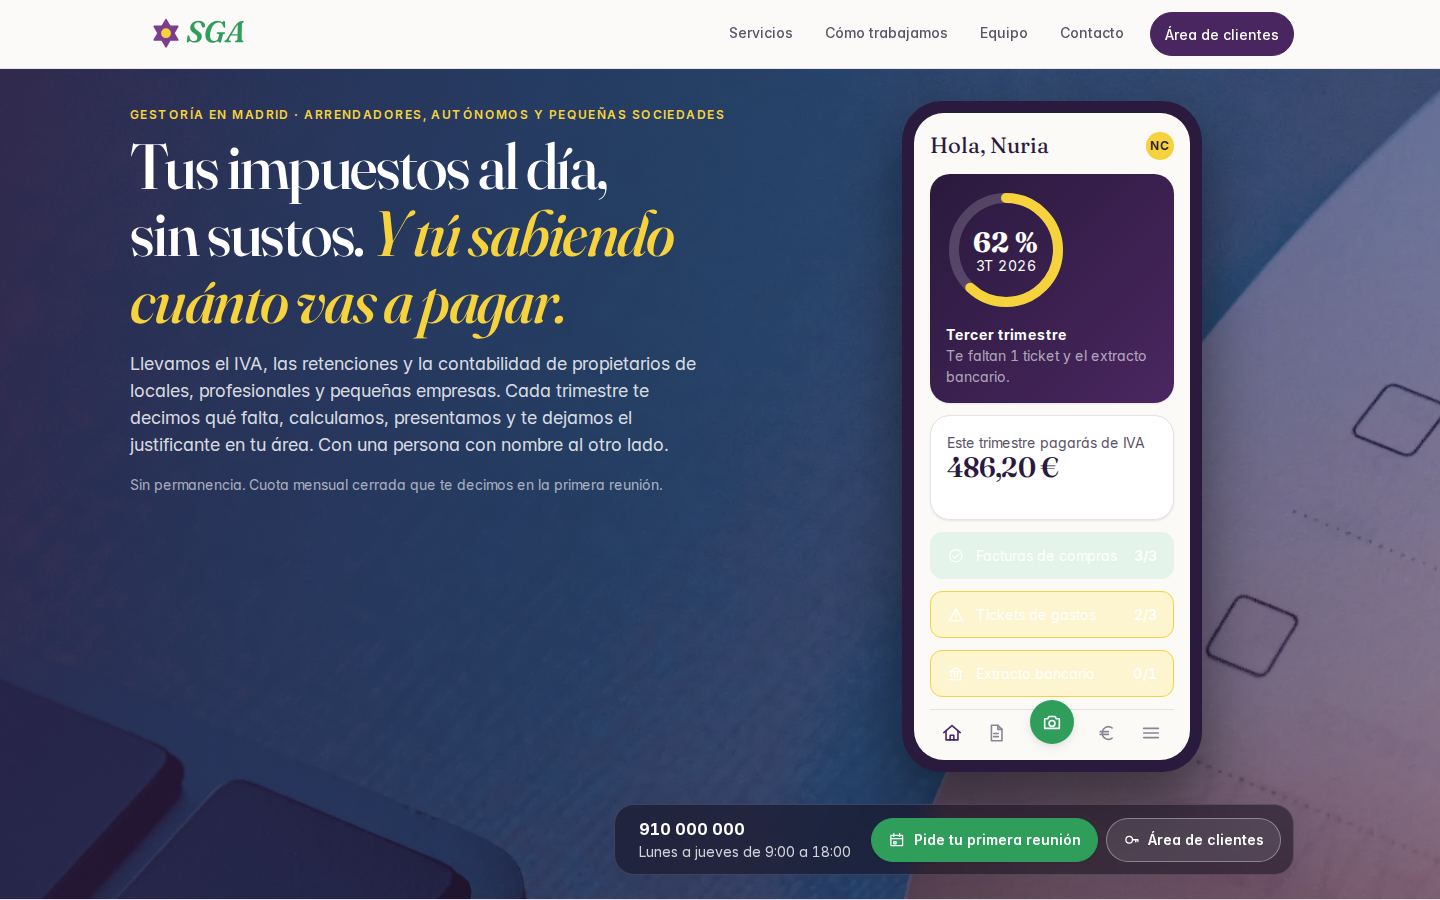
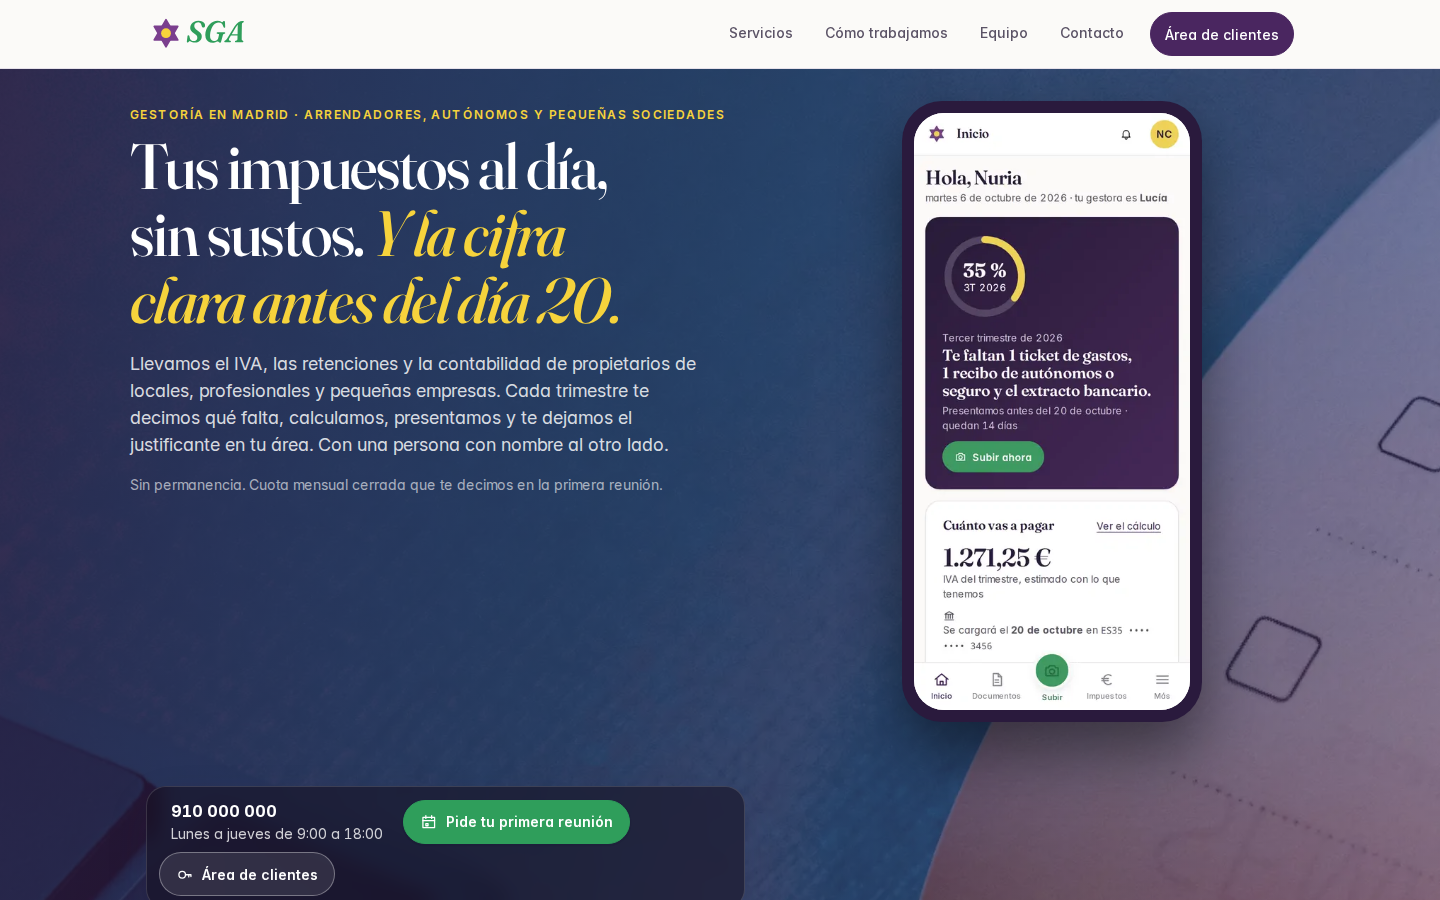
SGA: menu lateral claro, captura real del area en el hero y nuevo titular («la cifra clara antes del dia 20»)
Claude-Session: https://claude.ai/code/session_01F2MdGGYEvGJmwLcayXGW5u

Changed region(s): [[0.0, 0.0933, 1.0, 1.0], [0.0938, 0.2178, 0.4688, 0.3733], [0.9375, 0.4356, 1.0, 0.5289]]

diff --git a/SGA/src/Sga.Web/wwwroot/css/sga.css b/SGA/src/Sga.Web/wwwroot/css/sga.css
@@ -266,6 +266,8 @@ a.celda:hover { filter: brightness(.95); }
 /* Maqueta de móvil en la web pública (dibujada con CSS, sin imágenes) */
 .movil { width: 300px; margin: 0 auto; border-radius: 40px; background: var(--morado-900); padding: 12px; box-shadow: var(--sombra-3); }
 .movil-pantalla { background: var(--papel); border-radius: 30px; overflow: hidden; padding: var(--e-4); min-height: 560px; display: flex; flex-direction: column; gap: var(--e-3); font-size: var(--t-sm); }
+.movil-pantalla.movil-real { padding: 0; min-height: 0; display: block; }
+.movil-real img { width: 100%; height: auto; display: block; }
 .movil-pantalla .hola { font-family: var(--f-display); font-size: var(--t-xl); color: var(--morado-900); }
 .movil-nav { margin-top: auto; display: flex; justify-content: space-around; padding-top: var(--e-3); border-top: 1px solid var(--linea); color: var(--tinta-3); }
 .movil-nav .icono { width: 22px; height: 22px; }
@@ -317,16 +319,20 @@ a.celda:hover { filter: brightness(.95); }
 @media (min-width: 900px) {
   .app { display: grid; grid-template-columns: var(--ancho-lateral) 1fr; grid-template-rows: auto 1fr; }
   .app.plegado { grid-template-columns: var(--ancho-lateral-plegado) 1fr; }
-  .app-lateral { display: flex; flex-direction: column; grid-row: 1 / -1; position: sticky; top: 0; height: 100dvh; background: var(--morado-900); color: rgba(255, 255, 255, .85); padding: var(--e-4) var(--e-3); gap: var(--e-2); overflow-y: auto; }
-  .app-lateral .marca { color: #fff; padding: 6px 10px 14px; }
+  .app-lateral { display: flex; flex-direction: column; grid-row: 1 / -1; position: sticky; top: 0; height: 100dvh; background: linear-gradient(180deg, #FBF9FD 0%, #F5EFF9 100%); color: var(--tinta-2); padding: var(--e-4) var(--e-3); gap: var(--e-2); overflow-y: auto; border-right: 1px solid var(--linea); }
+  .app-lateral .marca { color: var(--morado-900); padding: 6px 10px 14px; }
   .app-lateral .marca img { height: 34px; }
-  .app-lateral .titulo-nav { font-size: 10px; letter-spacing: .12em; text-transform: uppercase; color: rgba(255, 255, 255, .45); padding: var(--e-3) 12px 4px; }
+  .app-lateral .titulo-nav { font-size: 10px; letter-spacing: .12em; text-transform: uppercase; color: var(--tinta-3); padding: var(--e-3) 12px 4px; }
   .app-lateral nav { display: flex; flex-direction: column; gap: 2px; }
-  .app-lateral nav a { display: flex; align-items: center; gap: 12px; padding: 10px 12px; border-radius: var(--r); color: rgba(255, 255, 255, .85); text-decoration: none; font-size: var(--t-sm); font-weight: var(--peso-medio); white-space: nowrap; }
-  .app-lateral nav a:hover { background: rgba(255, 255, 255, .08); color: #fff; }
-  .app-lateral nav a[aria-current="page"] { background: rgba(255, 255, 255, .14); color: #fff; box-shadow: inset 3px 0 0 var(--amarillo-500); }
+  .app-lateral nav a { display: flex; align-items: center; gap: 12px; padding: 10px 12px; border-radius: var(--r); color: var(--tinta-2); text-decoration: none; font-size: var(--t-sm); font-weight: var(--peso-medio); white-space: nowrap; transition: background var(--transicion), color var(--transicion); }
+  .app-lateral nav a .icono { color: var(--morado-300); transition: color var(--transicion); }
+  .app-lateral nav a:hover { background: rgba(123, 63, 142, .08); color: var(--morado-900); }
+  .app-lateral nav a:hover .icono { color: var(--morado-500); }
+  .app-lateral nav a[aria-current="page"] { background: #fff; color: var(--morado-900); font-weight: var(--peso-semi); box-shadow: var(--sombra-1), inset 3px 0 0 var(--morado-500); }
+  .app-lateral nav a[aria-current="page"] .icono { color: var(--morado-700); }
   .app-lateral nav a .icono { width: 22px; height: 22px; }
-  .app-lateral .lateral-pie { margin-top: auto; padding: var(--e-3) 8px 0; border-top: 1px solid rgba(255, 255, 255, .12); display: flex; align-items: center; gap: 10px; font-size: var(--t-xs); color: rgba(255, 255, 255, .7); }
+  .app-lateral .lateral-pie { margin-top: auto; padding: var(--e-3) 8px 0; border-top: 1px solid var(--linea); display: flex; align-items: center; gap: 10px; font-size: var(--t-xs); color: var(--tinta-2); }
+  .app-lateral .lateral-pie .boton { color: var(--tinta-2); }
   .app.plegado .app-lateral nav a span, .app.plegado .app-lateral .titulo-nav, .app.plegado .app-lateral .lateral-pie .texto, .app.plegado .app-lateral .marca span { display: none; }
   .app.plegado .app-lateral nav a { justify-content: center; padding: 12px; }
   .app-cabecera { grid-column: 2; min-height: var(--alto-cabecera); padding: 0 var(--e-6); }
